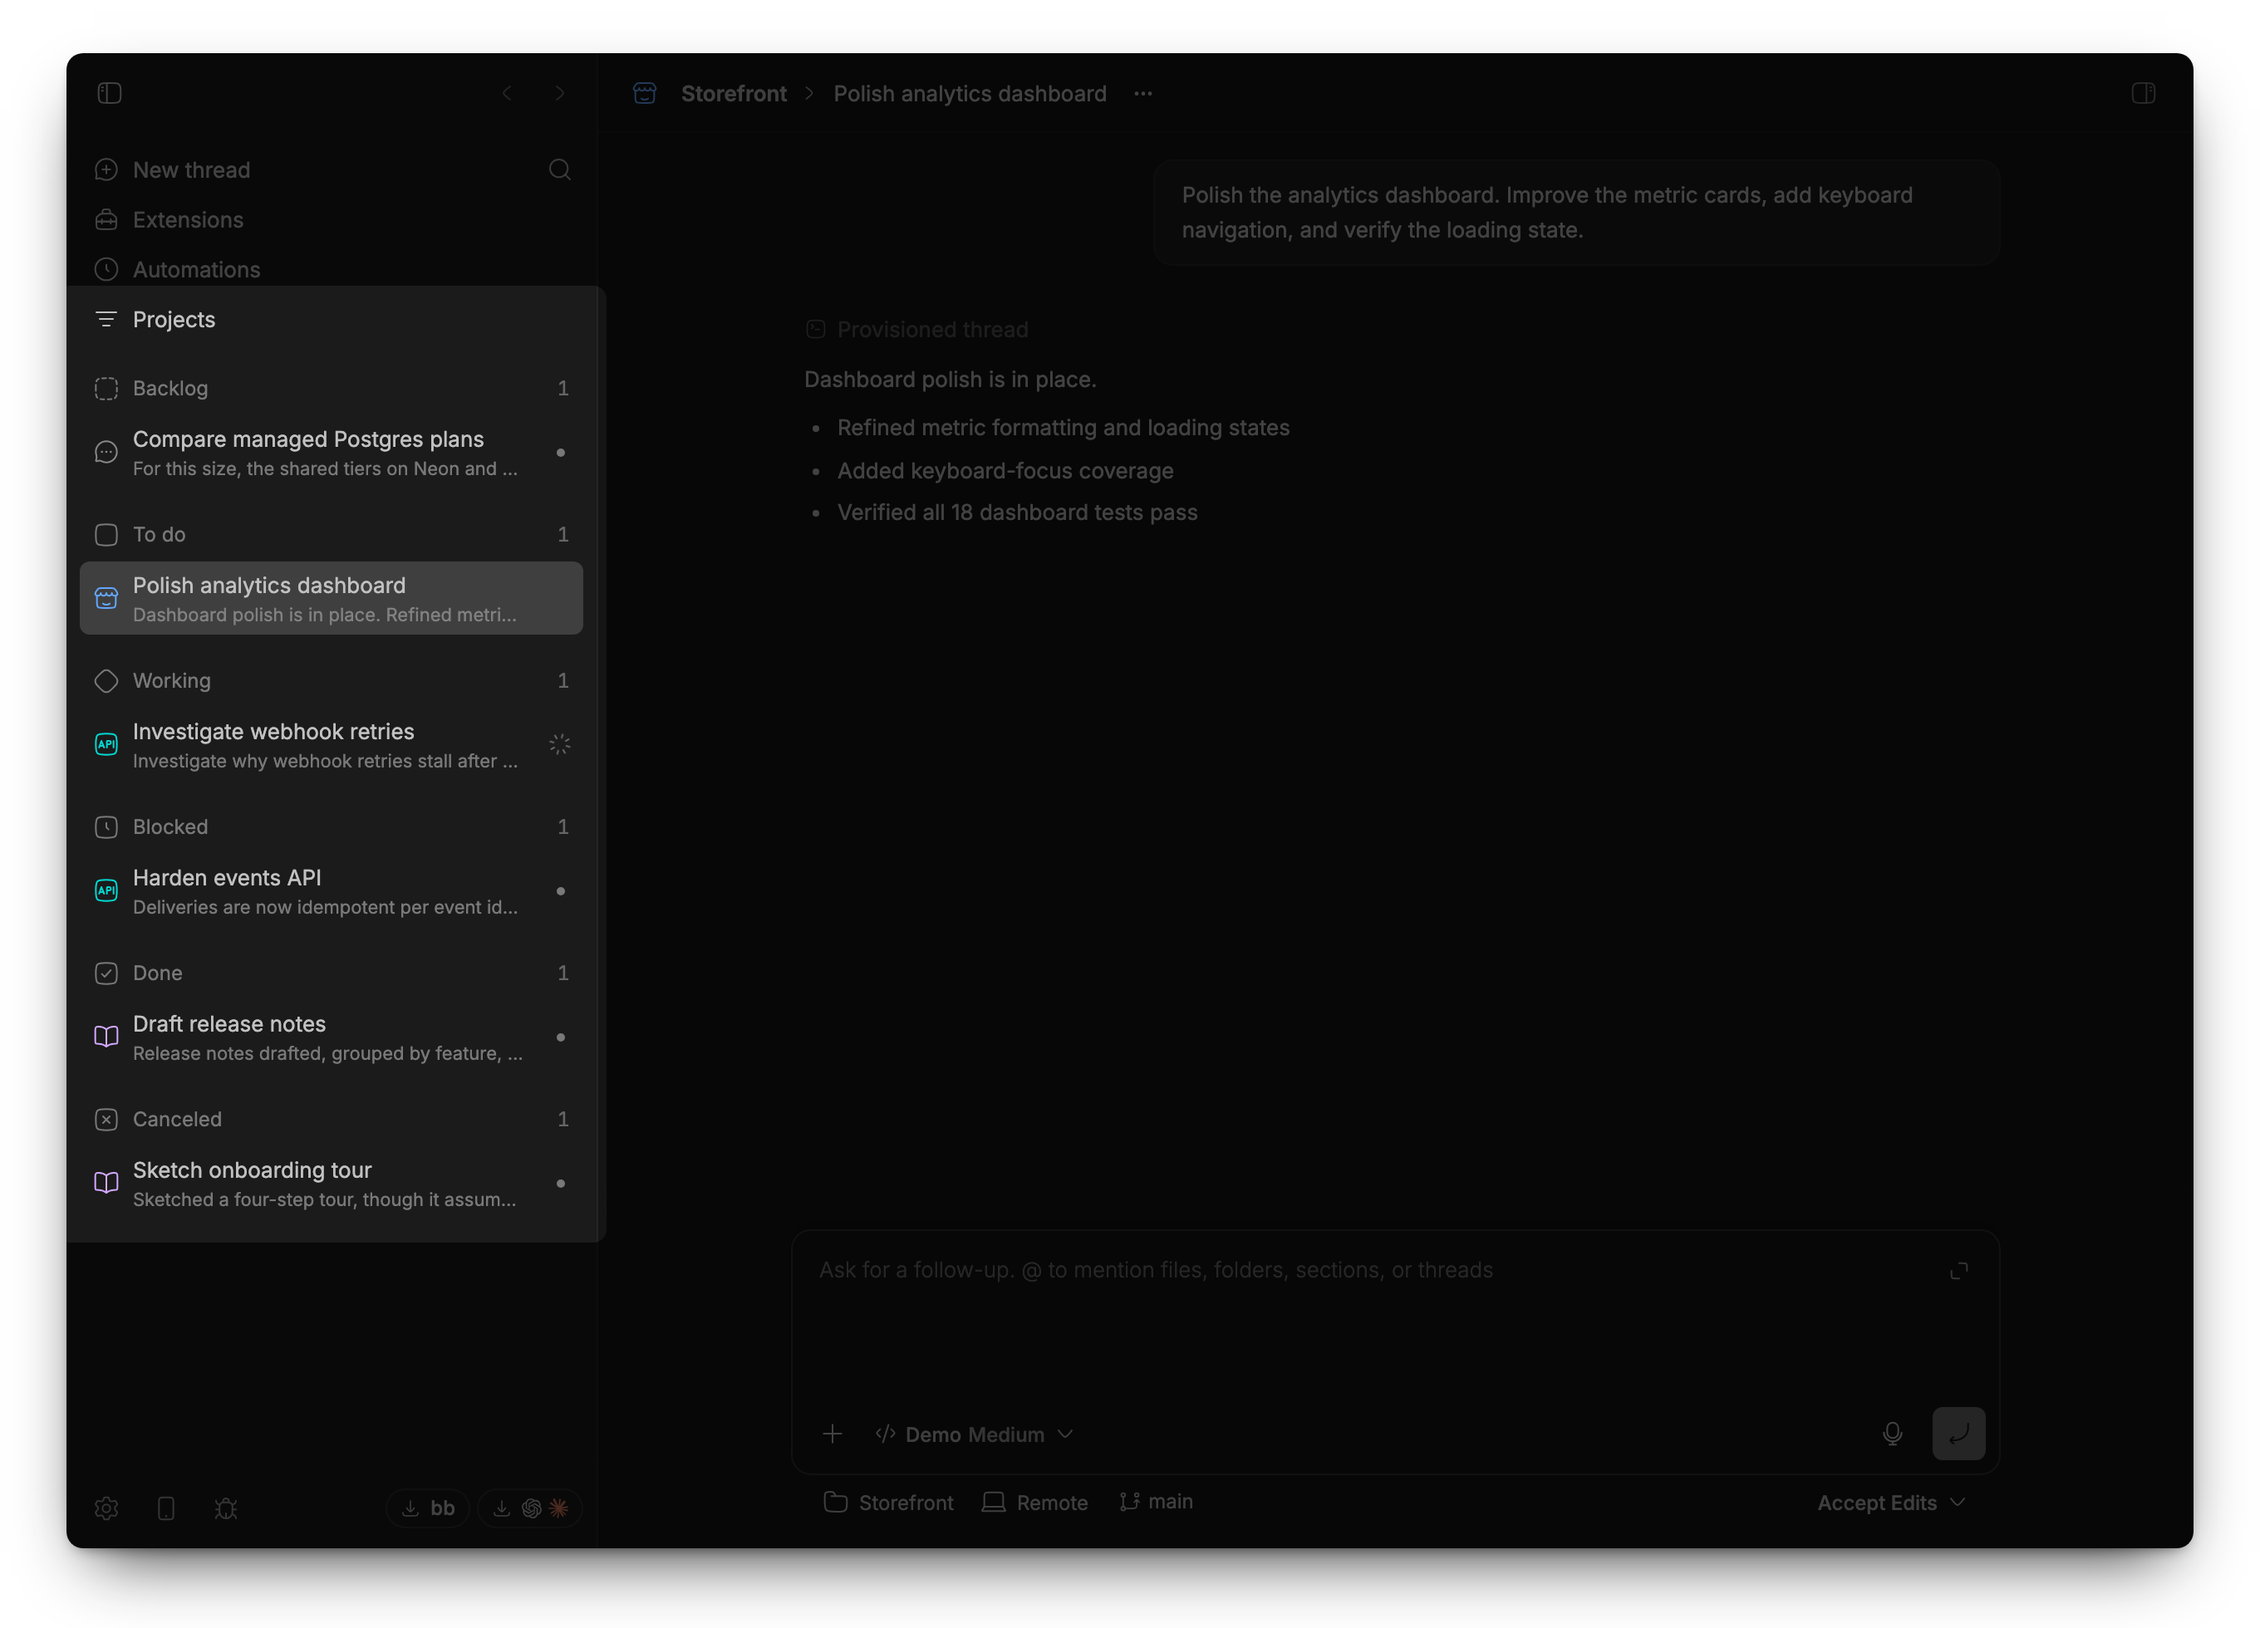
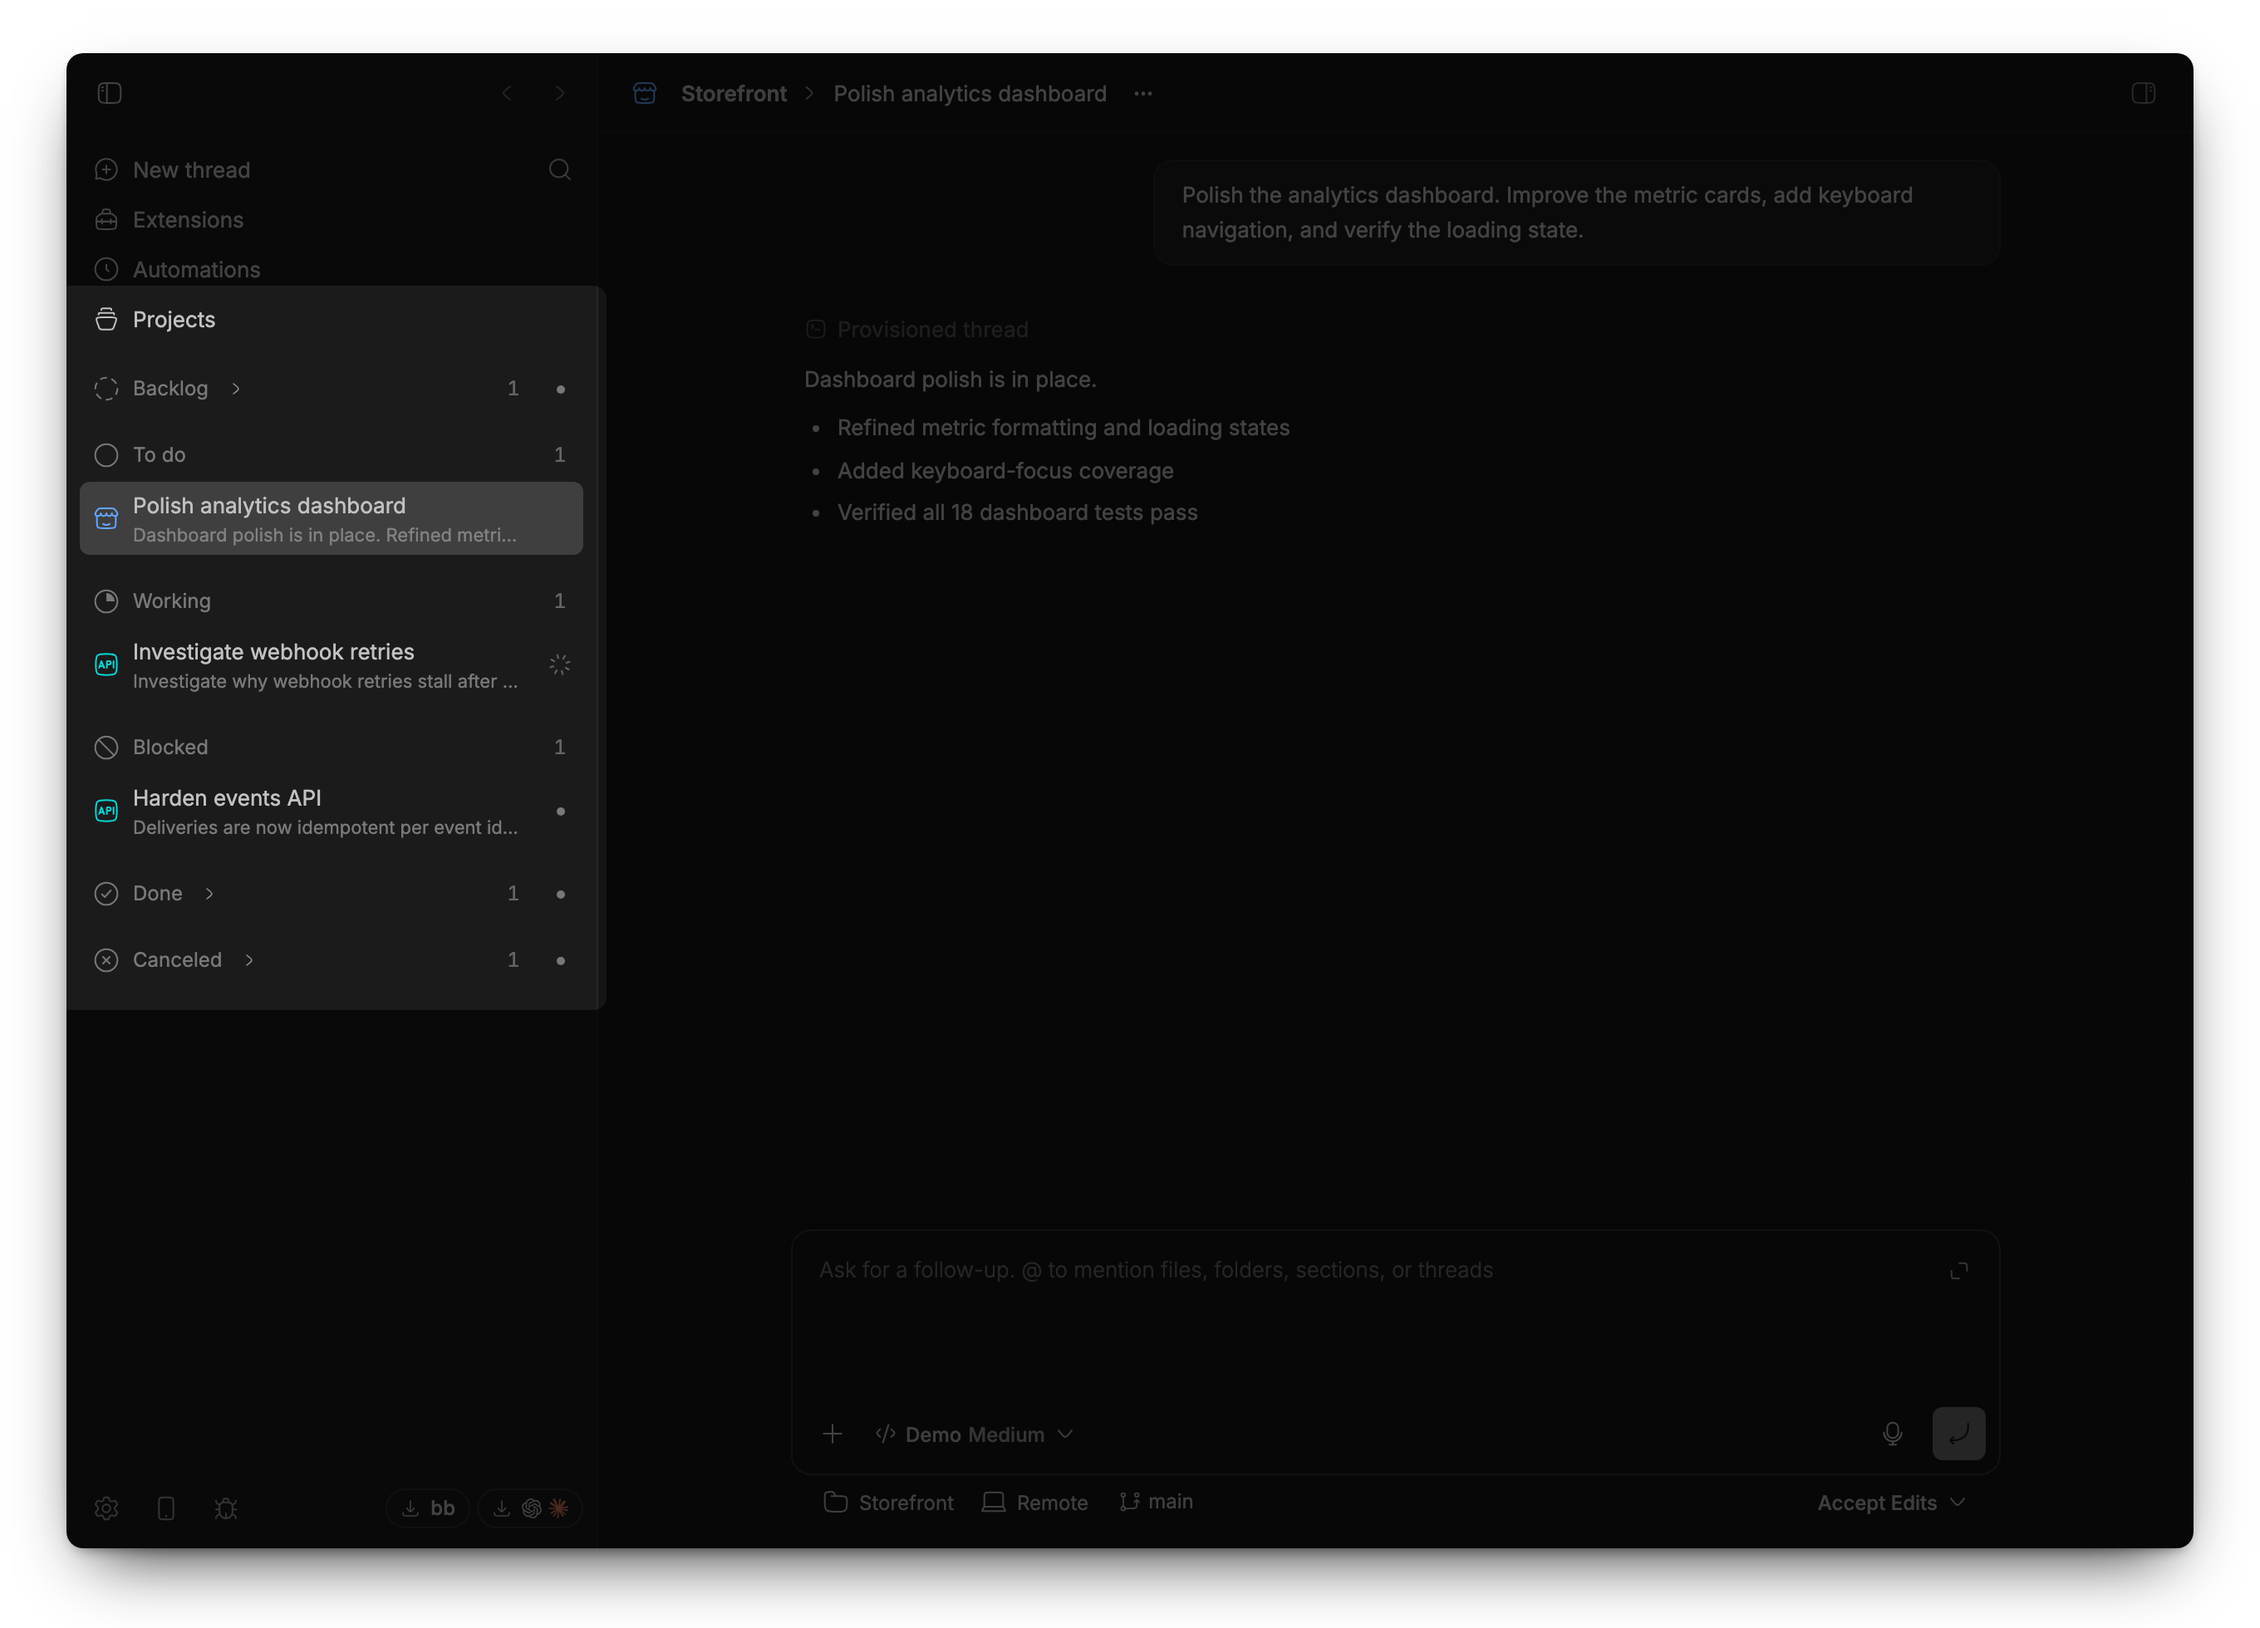
Keep stage counts beside indicators

Changed region(s): [[0.0312, 0.249, 0.2812, 0.5602], [0.0625, 0.6847, 0.2188, 0.7469], [0.0625, 0.5913, 0.2188, 0.6536]]

diff --git a/plugins/bb-plugin-thread-stages/src/app.test.tsx b/plugins/bb-plugin-thread-stages/src/app.test.tsx
@@ -3,18 +3,22 @@ import { loadPluginApp } from "@get-bb/plugin-sdk/testing/app";
 import { describe, expect, it } from "vitest";
 
 describe("thread stages app registration", () => {
-  it("registers the thread list and lifecycle-managed shortcuts", async () => {
-    const app = await loadPluginApp(() => import("./app"));
+  it(
+    "registers the thread list and lifecycle-managed shortcuts",
+    async () => {
+      const app = await loadPluginApp(() => import("./app"));
 
-    expect(app.threadLists).toHaveLength(1);
-    expect(app.threadLists[0]).toMatchObject({
-      id: "workflow-stage",
-      title: "Thread stages",
-    });
-    expect(app.contentScripts).toHaveLength(2);
-    expect(app.contentScripts.map(({ id }) => id)).toEqual([
-      "workflow-shortcuts",
-      "sidebar-content-spacing",
-    ]);
-  });
+      expect(app.threadLists).toHaveLength(1);
+      expect(app.threadLists[0]).toMatchObject({
+        id: "workflow-stage",
+        title: "Thread stages",
+      });
+      expect(app.contentScripts).toHaveLength(2);
+      expect(app.contentScripts.map(({ id }) => id)).toEqual([
+        "workflow-shortcuts",
+        "sidebar-content-spacing",
+      ]);
+    },
+    10_000,
+  );
 });

diff --git a/plugins/bb-plugin-thread-stages/src/app.tsx b/plugins/bb-plugin-thread-stages/src/app.tsx
@@ -528,13 +528,15 @@ function SidebarSection({
             />
           </button>
         </span>
-        {count === undefined || activityThread ? null : (
+        {count === undefined ? null : (
           <span
             aria-label={`${count} ${count === 1 ? "thread" : "threads"}`}
             data-sidebar-hover-actions-open={
               optionsOpen ? "true" : undefined
             }
-            className="bb-sidebar-hover-actions-fade pointer-events-none absolute right-0 z-20 inline-flex size-7 items-center justify-center tabular-nums text-xs text-subtle-foreground/60"
+            className={`bb-sidebar-hover-actions-fade pointer-events-none absolute z-20 inline-flex size-7 items-center justify-center tabular-nums text-xs text-subtle-foreground/60 ${
+              activityThread ? "right-7" : "right-0"
+            }`}
           >
             {count}
           </span>

diff --git a/plugins/bb-plugin-thread-stages/README.md b/plugins/bb-plugin-thread-stages/README.md
@@ -31,8 +31,10 @@ does not change stage assignments or synchronization.
 The adjacent actions create a project through bb's native host folder picker
 or open the New section dialog. Stage counts show the number of filtered root
 threads in each unpinned stage; they are enabled by default and can be hidden
-in the plugin's settings. On a client with no saved collapse choices, Backlog,
-Done, and Canceled start collapsed; To do, Working, and Blocked start expanded.
+in the plugin's settings. A collapsed stage keeps its count visible immediately
+to the left of any aggregate activity indicator. On a client with no saved
+collapse choices, Backlog, Done, and Canceled start collapsed; To do, Working,
+and Blocked start expanded.
 
 Drag root threads to reorder or change their stage. Ordering uses
 fractional keys, so a move updates only the moved thread. Root threads enter

diff --git a/.changeset/fresh-stage-icons.md b/.changeset/fresh-stage-icons.md
@@ -3,4 +3,5 @@
 ---
 
 Refresh every stage icon, include stage and section icons in thread action
-menus, and align collapsed-stage activity indicators with thread indicators.
+menus, and align collapsed-stage activity indicators with thread indicators
+without hiding stage counts.
